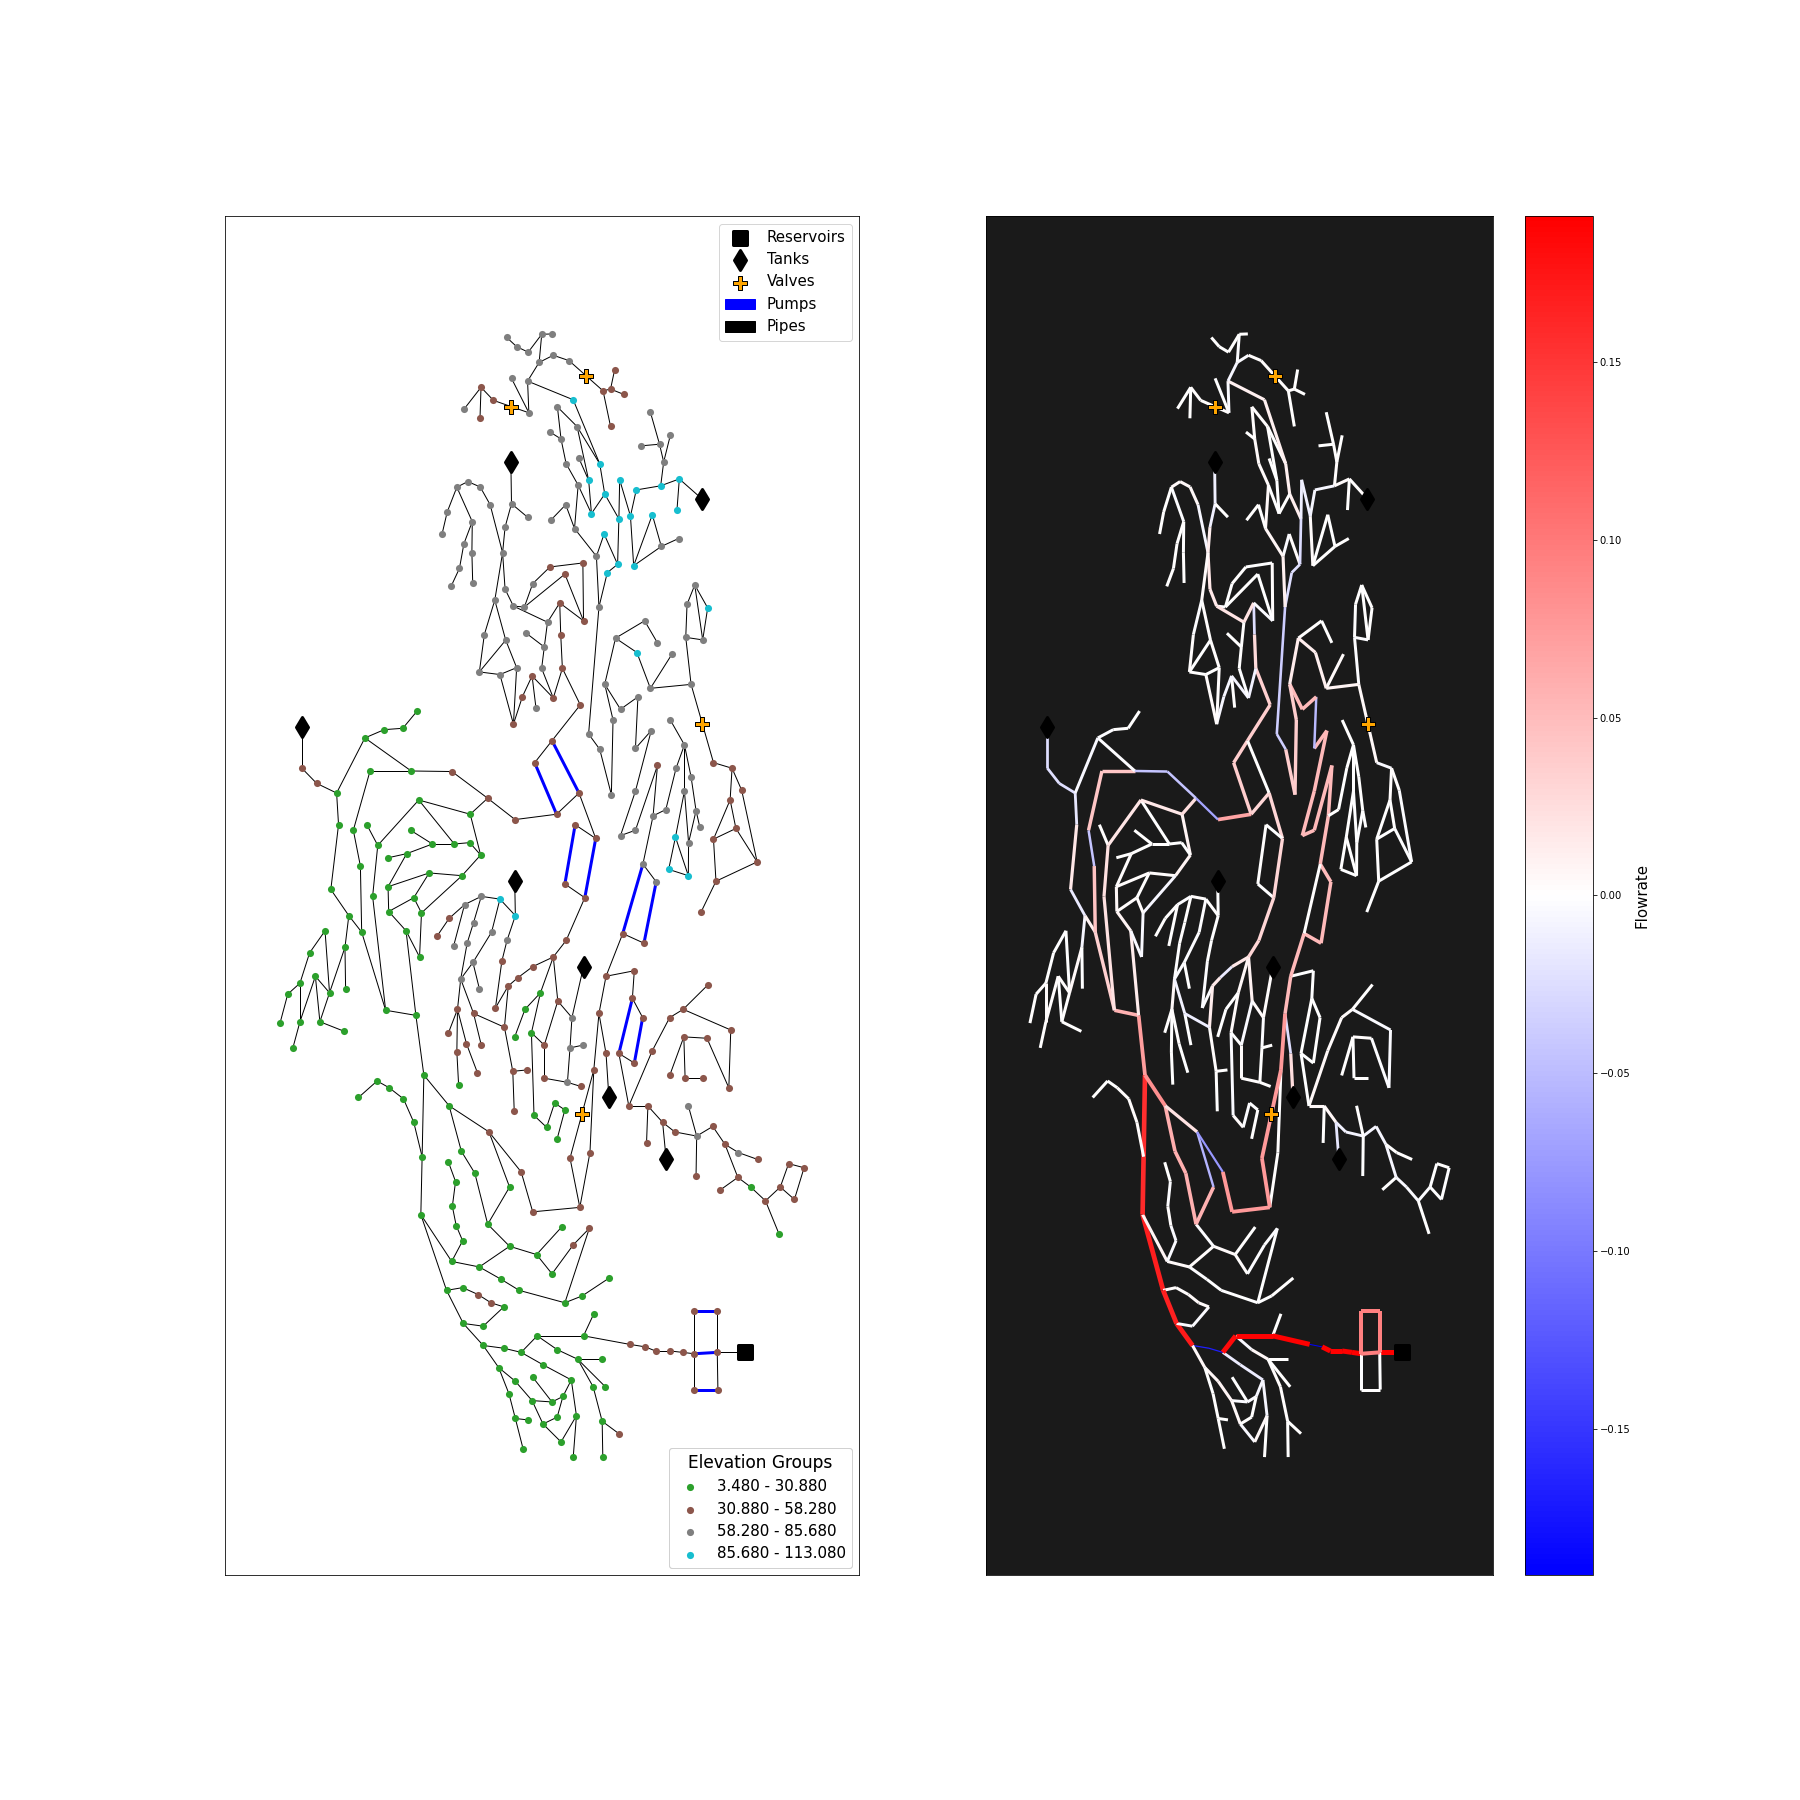
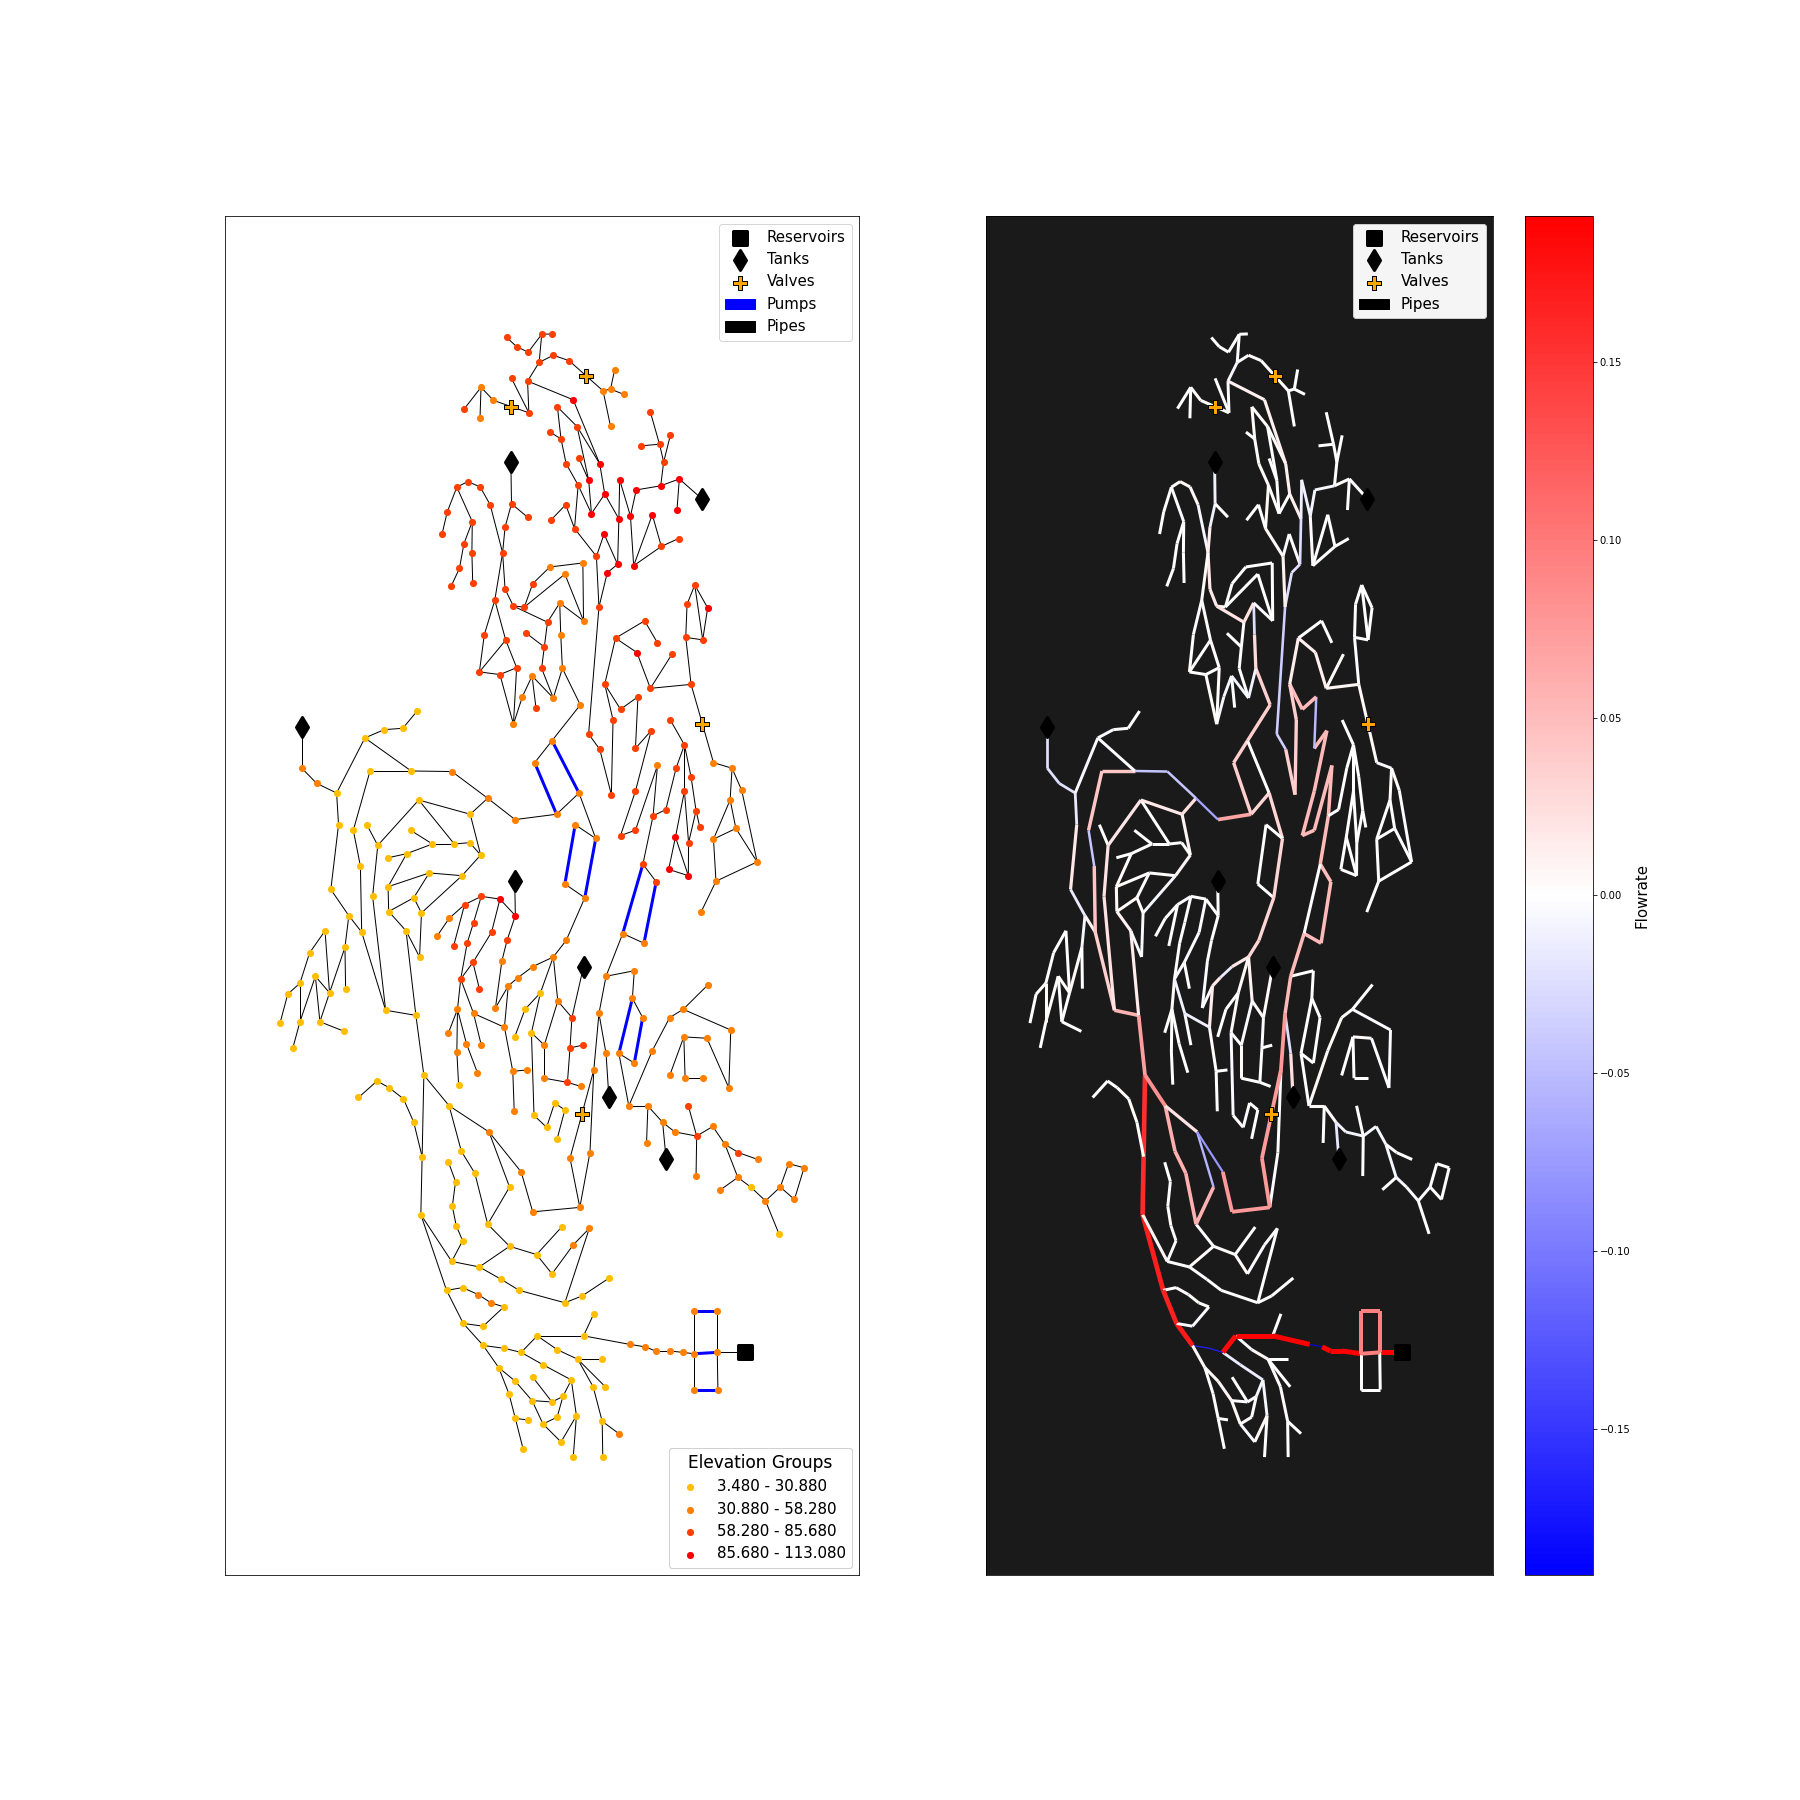
Add legends to continuous plotting functions

Changed region(s): [[0.7467, 0.1244, 0.84, 0.1867], [0.28, 0.1867, 0.3111, 0.2178], [0.2489, 0.4978, 0.28, 0.5289]]

diff --git a/Base Codes/wdn_viz_003.py b/Base Codes/wdn_viz_003.py
@@ -1,5 +1,5 @@
 import warnings
-warnings.filterwarnings("ignore",category=UserWarning)
+warnings.filterwarnings("ignore")
 import wntr
 import numpy as np
 import matplotlib.pyplot as plt
@@ -9,6 +9,9 @@ import matplotlib.patches as mpatches
 import os
 import pandas as pd
 import imageio
+
+default_cmap = mpl.cm.get_cmap('autumn_r')
+
 
 def initialize_model(inp_file):
     """Initializes all variables needed to perform other plotting functions
@@ -463,7 +466,6 @@ def get_demand_patterns(model):
             
             del demand_pattern_nodes[pattern]
             
-    print(demand_pattern_nodes)        
     return demand_pattern_nodes, patterns  
     
 
@@ -1025,7 +1027,7 @@ def plot_basic_elements(model,ax,pumps=True,valves=True,reservoirs=True,tanks=Tr
 
 
 
-def plot_discrete_nodes(model,ax,bin_edge_num=5,parameter=None, value=None, get_tanks=False,get_reservoirs=False,bins='automatic', bin_size_list = None, bin_shape_list = None,bin_label_list = None, bin_border_list = None, bin_border_width_list = None, savefig=True, tanks=True, reservoirs=True, pumps=True, valves=True,legend=True,legend_title = None, legend_loc_1='upper right', legend_loc_2='lower right',save_name=None, cmap='gist_heat', color_list=None):
+def plot_discrete_nodes(model,ax,bin_edge_num=5,parameter=None, value=None, get_tanks=False,get_reservoirs=False,bins='automatic', bin_size_list = None, bin_shape_list = None,bin_label_list = None, bin_border_list = None, bin_border_width_list = None, savefig=True, tanks=True, reservoirs=True, pumps=True, valves=True,legend=True,legend_title = None, legend_loc_1='upper right', legend_loc_2='lower right',save_name=None, cmap= default_cmap, color_list=None):
     """Plots discrete Nodes.
     Arguments:
     figsize: Figure size. Takes a 2-element List.
@@ -1071,7 +1073,7 @@ def plot_discrete_nodes(model,ax,bin_edge_num=5,parameter=None, value=None, get_
     
         if legend == True:
             
-            draw_legend(ax,binNames,title=legend_title,pumps=pumps,loc=legend_loc_1,loc2=legend_loc_2)
+            draw_legend(ax,bin_list=binNames,title=legend_title,pumps=pumps,loc=legend_loc_1,loc2=legend_loc_2)
     
     
     if savefig == True:
@@ -1082,7 +1084,7 @@ def plot_discrete_nodes(model,ax,bin_edge_num=5,parameter=None, value=None, get_
     
 
 
-def plot_continuous_nodes(model,ax,parameter=None, value=None, tanks=True, reservoirs=True, pumps=True, valves=True,cmap='gist_heat', color_bar_title=None,node_size=100, node_shape='.',edge_colors=None,line_widths=None,savefig=True, save_name=None):
+def plot_continuous_nodes(model,ax,parameter=None, value=None, tanks=True, reservoirs=True, pumps=True, valves=True,cmap= default_cmap, color_bar_title=None,node_size=100, node_shape='.',edge_colors=None,line_widths=None,legend=True,legend_loc='upper right',legend_title=None,savefig=True, save_name=None,):
     """Plots continuous Nodes.
     Arguments:
     figsize: Figure size. Takes a 2-element List.
@@ -1116,6 +1118,9 @@ def plot_continuous_nodes(model,ax,parameter=None, value=None, tanks=True, reser
         
         draw_color_bar(ax,g,cmap,color_bar_title=color_bar_title)
 
+    if legend == True:
+        
+        draw_legend(ax,title=legend_title,pumps=pumps,loc=legend_loc)
         
     if savefig == True:
         
@@ -1124,7 +1129,7 @@ def plot_continuous_nodes(model,ax,parameter=None, value=None, tanks=True, reser
     
   
     
-def plot_discrete_links(model, ax,bin_edge_num=5, parameter=None, value=None, bins='automatic', bin_width_list=None, bin_label_list=None,color_list=None,tanks=True, reservoirs=True, pumps=True, valves=True,cmap='gist_heat',legend=True, legend_title=None, legend_loc_1='upper right', legend_loc_2='lower right',savefig=True,save_name=None):
+def plot_discrete_links(model, ax,bin_edge_num=5, parameter=None, value=None, bins='automatic', bin_width_list=None, bin_label_list=None,color_list=None,tanks=True, reservoirs=True, pumps=True, valves=True,cmap=default_cmap,legend=True, legend_title=None, legend_loc_1='upper right', legend_loc_2='lower right',savefig=True,save_name=None):
     """Plots discrete Links.
     Arguments:
     figsize: Figure size. Takes a 2-element List.
@@ -1170,7 +1175,7 @@ def plot_discrete_links(model, ax,bin_edge_num=5, parameter=None, value=None, bi
         
         if legend == True:
             
-            draw_legend(ax,binNames,title=legend_title,pumps=pumps,loc=legend_loc_1,loc2=legend_loc_2)
+            draw_legend(ax,bin_list=binNames,title=legend_title,pumps=pumps,loc=legend_loc_1,loc2=legend_loc_2)
 
 
     if savefig == True:
@@ -1180,7 +1185,7 @@ def plot_discrete_links(model, ax,bin_edge_num=5, parameter=None, value=None, bi
          
    
     
-def plot_continuous_links(model,ax,parameter=None,value=None,min_width=1,max_width=5,tanks=True, reservoirs=True, pumps=True, valves=True,cmap='gist_heat',color_bar_title=None,savefig=True, save_name=None):
+def plot_continuous_links(model,ax,parameter=None,value=None,min_width=1,max_width=5,tanks=True, reservoirs=True, pumps=True, valves=True,cmap=default_cmap,color_bar_title=None,legend=True,legend_loc='upper right',legend_title=None,savefig=True, save_name=None):
     """Plots continuous Links.
     Arguments:
     figsize: Figure size. Takes a 2-element List.
@@ -1238,6 +1243,9 @@ def plot_continuous_links(model,ax,parameter=None,value=None,min_width=1,max_wid
     
         draw_color_bar(ax,g,cmap,color_bar_title=color_bar_title)
     
+    if legend == True:
+        
+        draw_legend(ax,title=legend_title,pumps=pumps,loc=legend_loc)
     
     if savefig == True:
         
@@ -1293,7 +1301,7 @@ def animate_plot(model,ax,function,fps=3,first_timestep=0,last_timestep=None,gif
 
 
             
-def plot_unique_data(model, ax, parameter=None, parameter_type=None,data_type=None,excel_columns=None,customDataValues=None, bins='automatic',bin_size_list = None, bin_shape_list = None, bin_edge_num=None, bin_width_list=None, bin_label_list=None,bin_border_list = None, bin_border_width_list = None,color_list=None,min_width=1,max_width=5,tanks=True, reservoirs=True, pumps=True, valves=True,cmap='gist_heat',legend=True, legend_title=None,node_size=100, node_shape='.',legend_loc_1='upper right', legend_loc_2='lower right',savefig=True,save_name=None,color_bar_title=None):
+def plot_unique_data(model, ax, parameter=None, parameter_type=None,data_type=None,excel_columns=None,customDataValues=None, bins='automatic',bin_size_list = None, bin_shape_list = None, bin_edge_num=None, bin_width_list=None, bin_label_list=None,bin_border_list = None, bin_border_width_list = None,color_list=None,min_width=1,max_width=5,tanks=True, reservoirs=True, pumps=True, valves=True,cmap=default_cmap,legend=True, legend_title=None,node_size=100, node_shape='.',legend_loc_1='upper right', legend_loc_2='lower right',savefig=True,save_name=None,color_bar_title=None):
     
     
     if parameter=='demand_patterns':
@@ -1536,7 +1544,10 @@ def plot_unique_data(model, ax, parameter=None, parameter_type=None,data_type=No
             
             draw_color_bar(ax,g,cmap)
             
-            
+            if legend == True:
+                
+                draw_legend(ax,title=legend_title,pumps=pumps,loc=legend_loc_1)
+                
             if savefig == True:
                 
                 save_fig(model, save_name=save_name)
@@ -1656,6 +1667,10 @@ def plot_unique_data(model, ax, parameter=None, parameter_type=None,data_type=No
             
             
             draw_color_bar(ax,g,cmap)
+            
+            draw_legend(ax,title=legend_title,pumps=pumps,loc=legend_loc_1)
+            
+            
             if savefig == True:
                 
                 save_fig(model, save_name=save_name)
